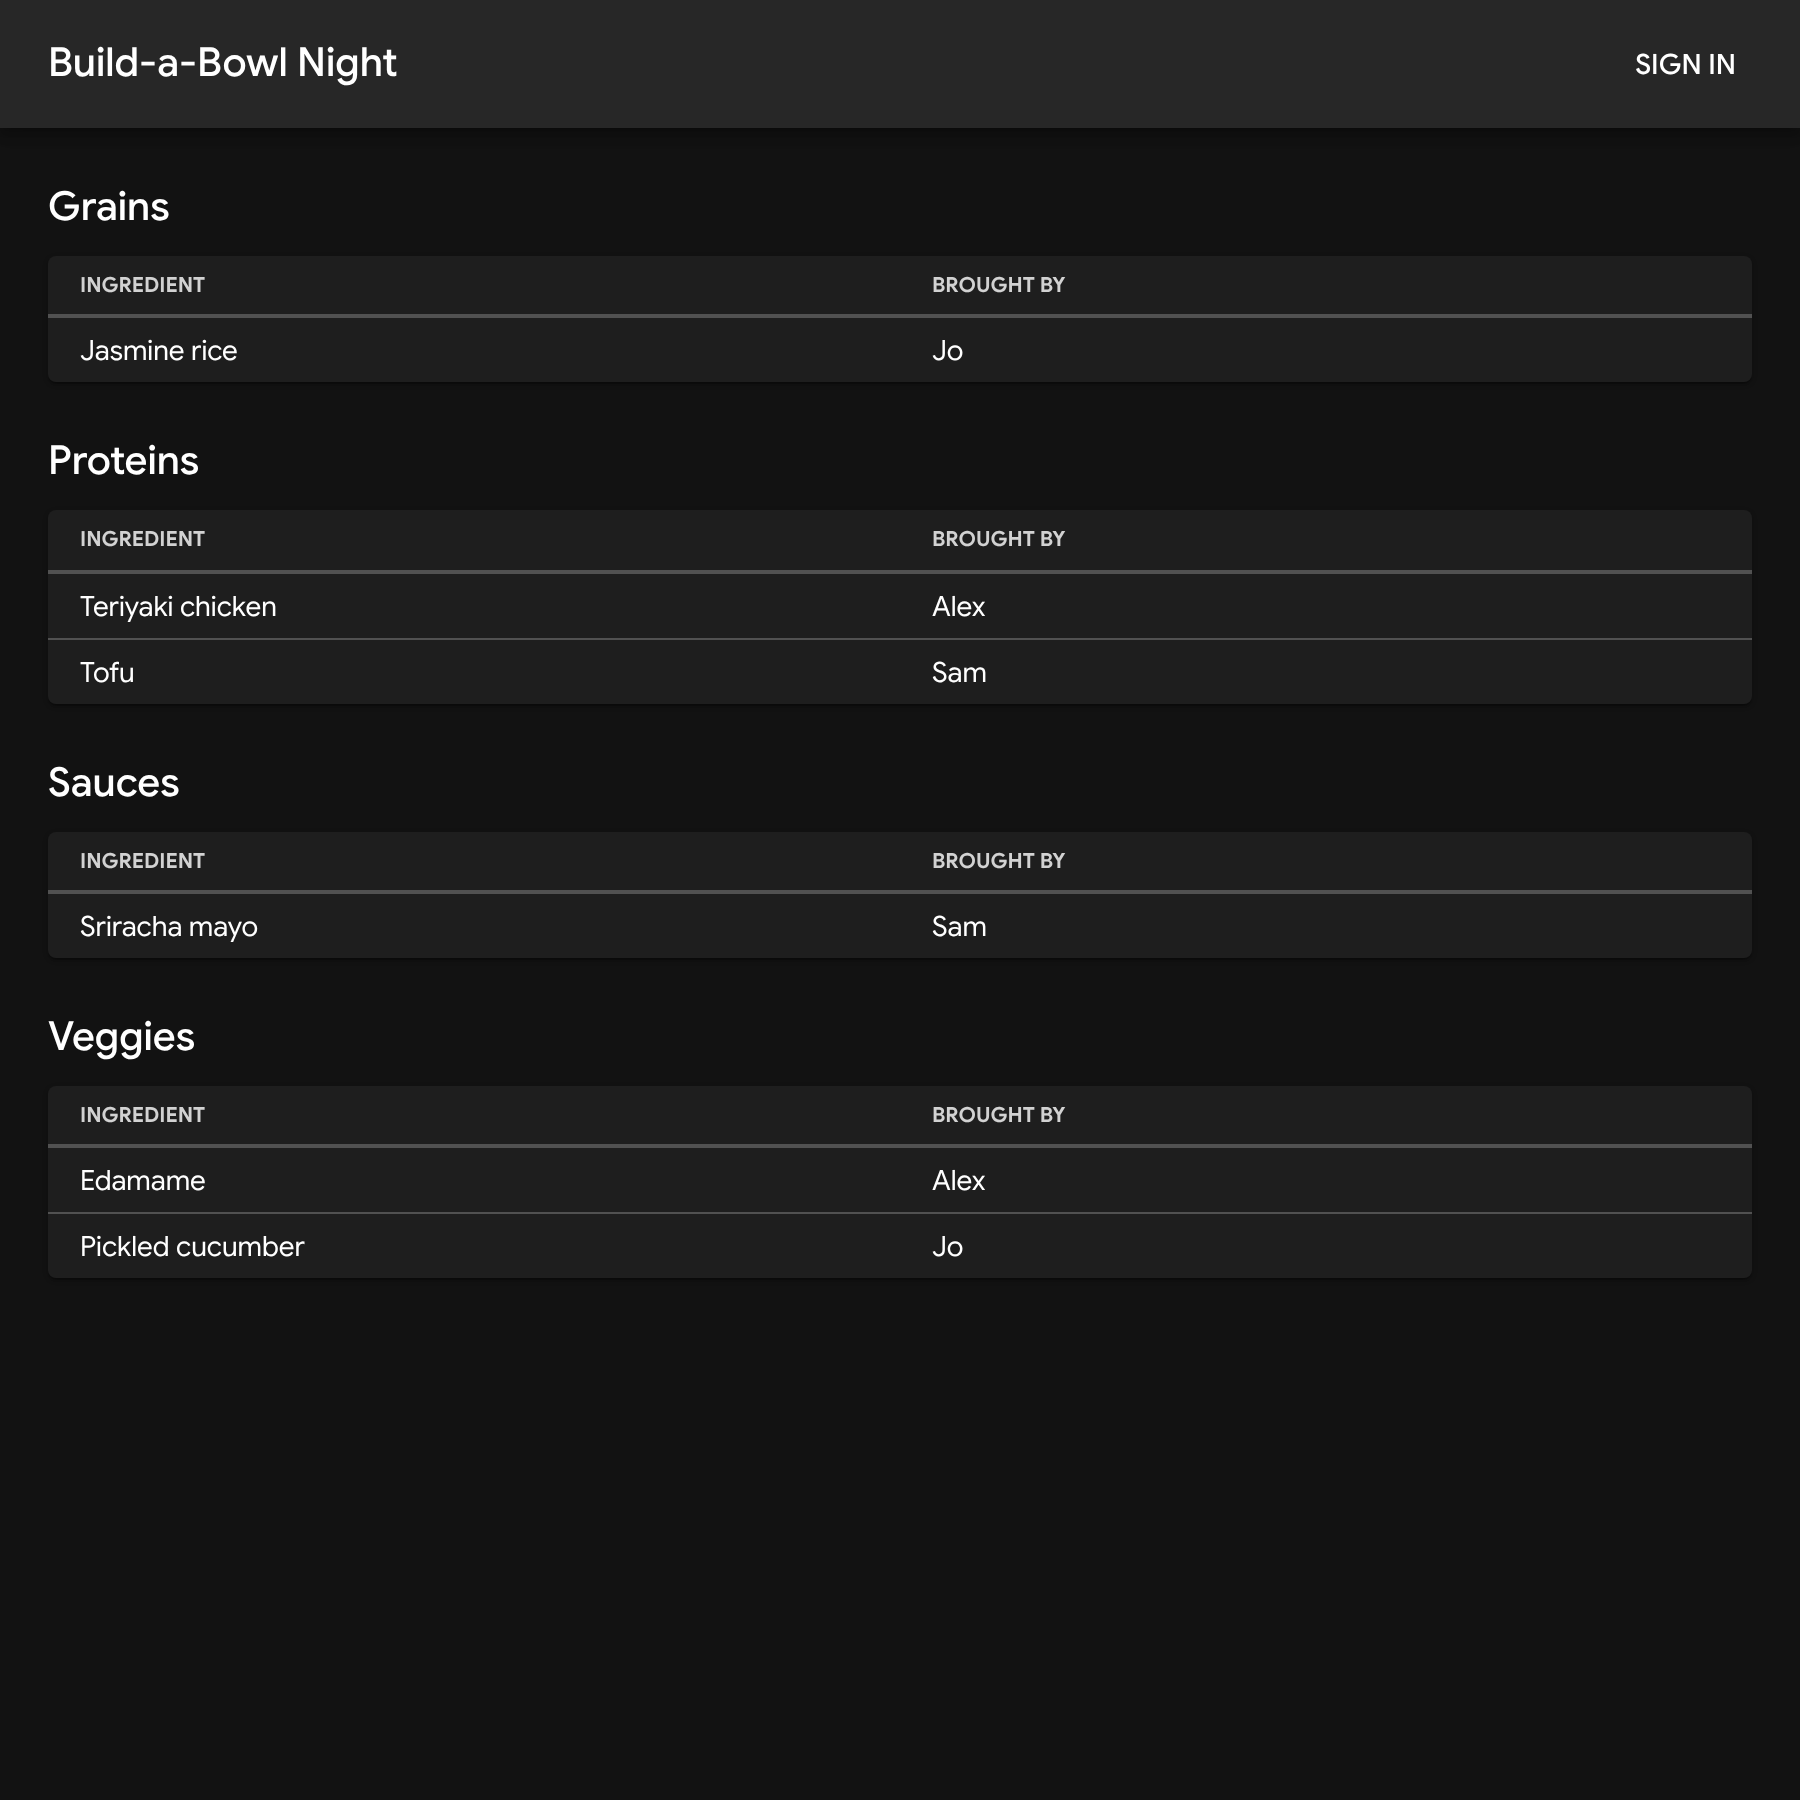
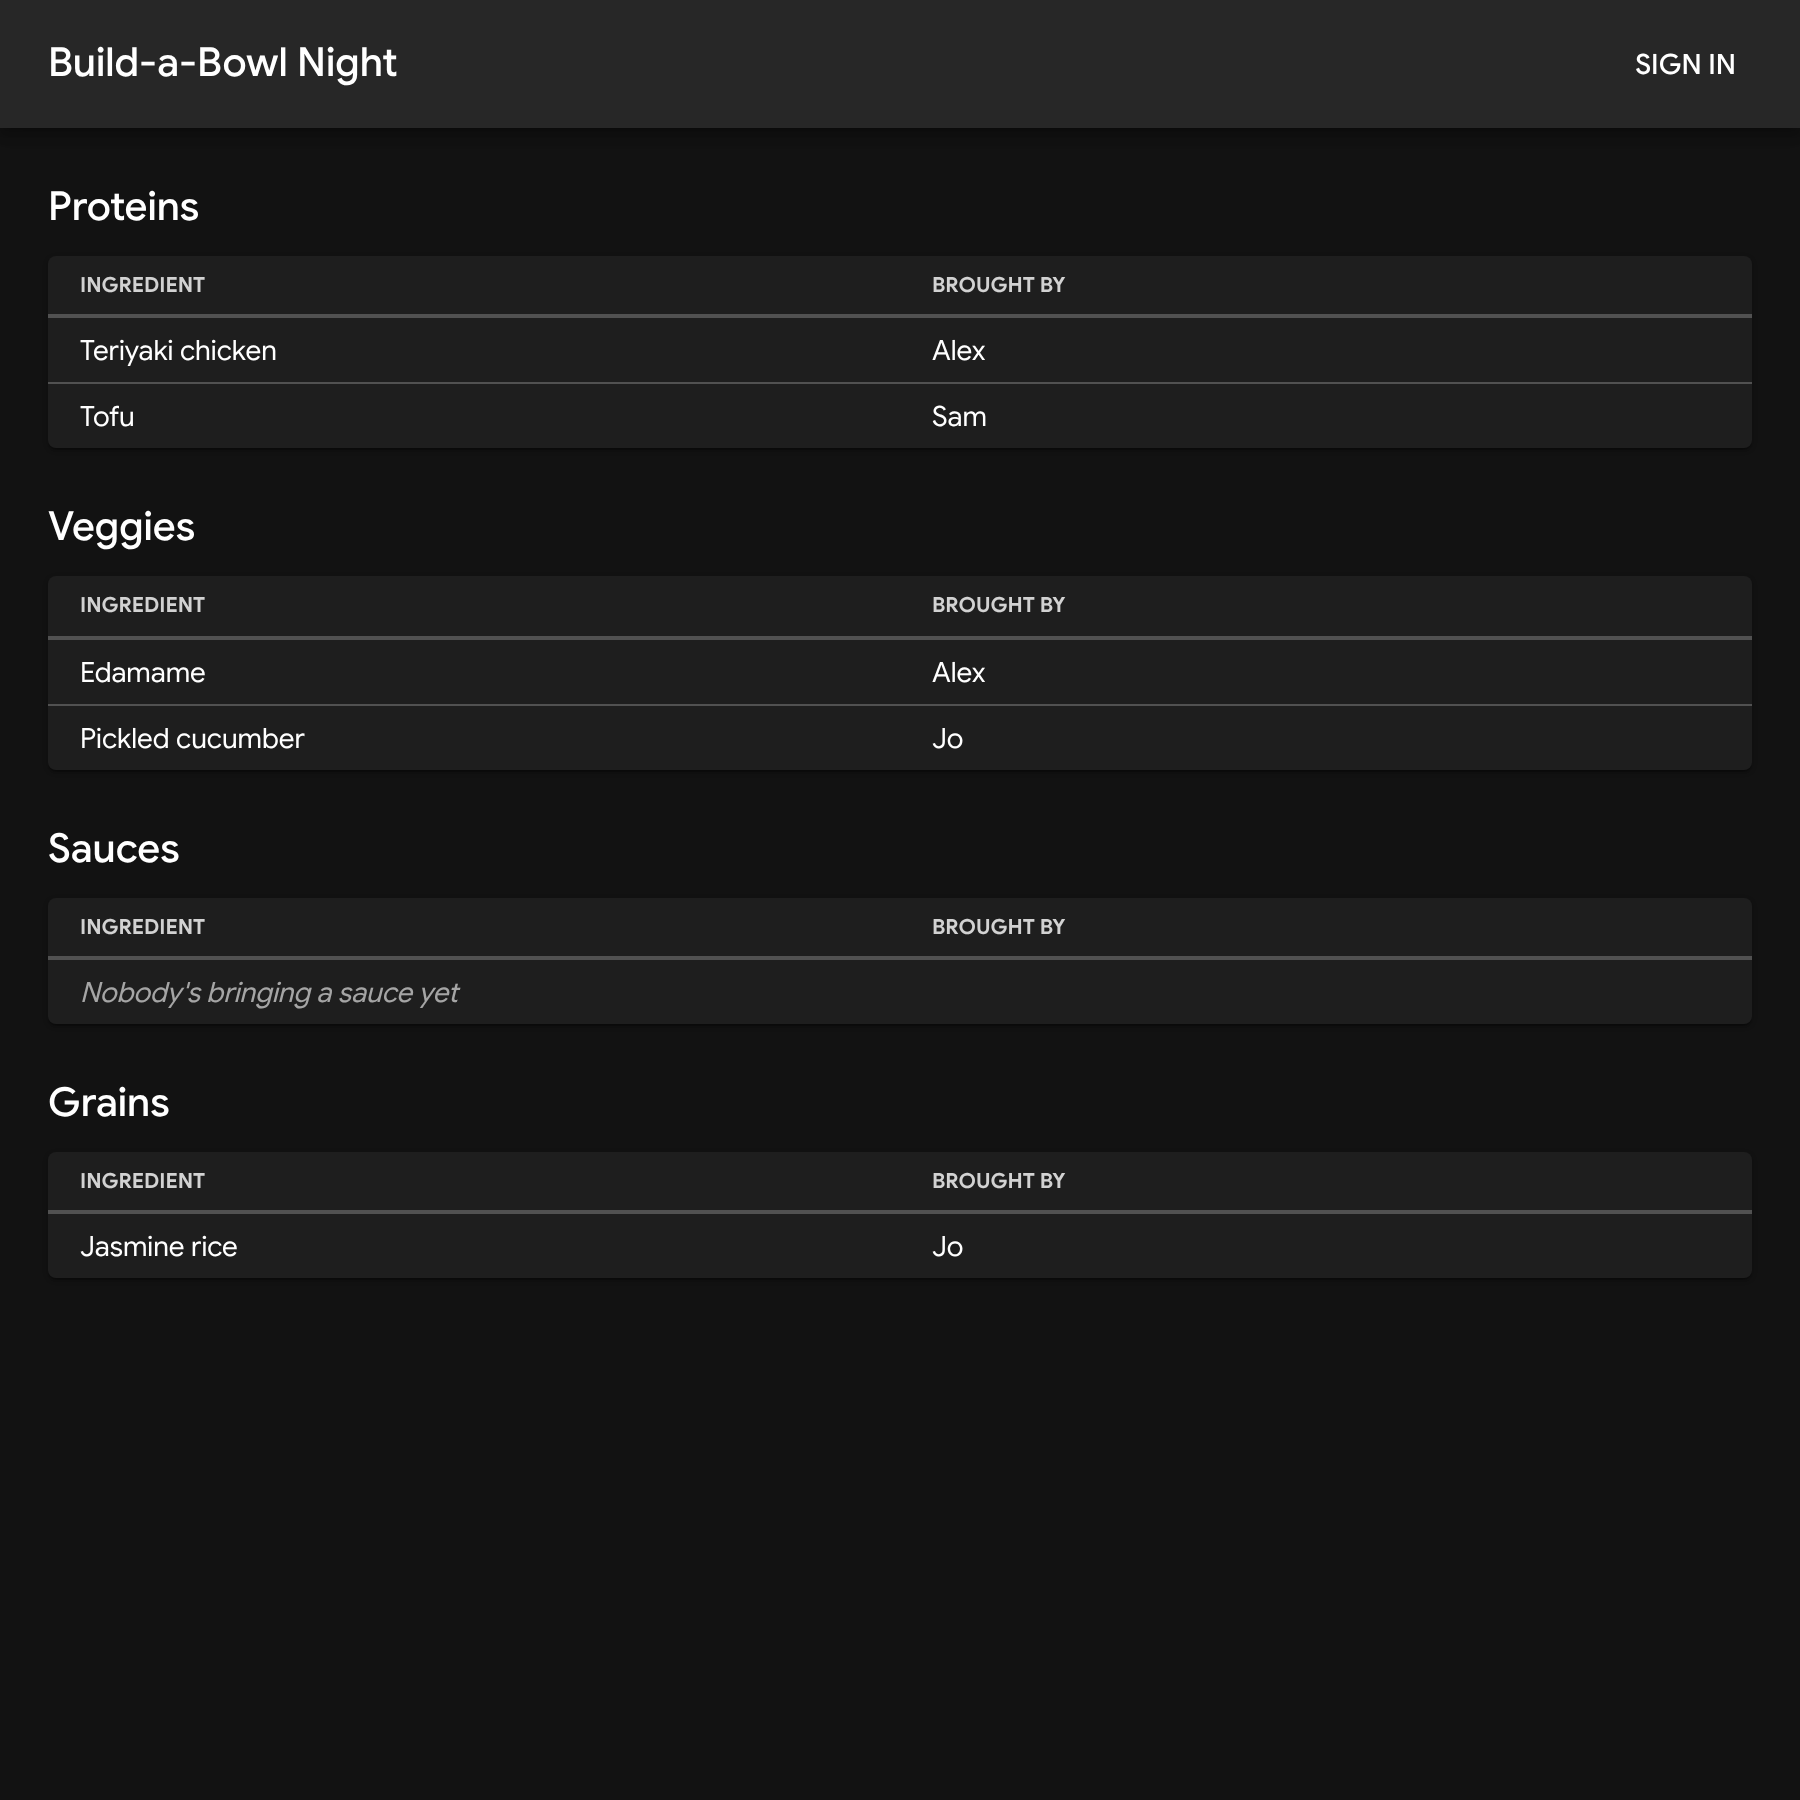
Always show every category, with a fallback row when empty
Claude-Session: https://claude.ai/code/session_01YaXshzgAPddr5nf8bECYCv

diff --git a/site/src/lib/ingredients.ts b/site/src/lib/ingredients.ts
@@ -6,24 +6,45 @@ export interface Ingredient {
   broughtBy: string;
 }
 
-// Groups ingredients by category, sorting categories and ingredients alphabetically.
-export function groupByCategory(ingredients: Ingredient[]): [string, Ingredient[]][] {
-  // Collect ingredients into a map keyed by category.
-  const groups = new Map<string, Ingredient[]>();
+// The categories a new ingredient can be filed under.
+export const INGREDIENT_CATEGORIES = [
+  "Protein",
+  "Veggie",
+  "Sauce",
+  "Grain",
+] as const;
+
+// Groups ingredients by category: every known category first (even if empty), then any others alphabetically.
+export function groupByCategory(
+  ingredients: Ingredient[],
+): [string, Ingredient[]][] {
+  // Seed the map with every known category so empty ones still appear, in their defined order.
+  const groups = new Map<string, Ingredient[]>(
+    INGREDIENT_CATEGORIES.map((c) => [c, []]),
+  );
+
+  // Collect ingredients into the map, adding any category not in the known list.
   for (const ingredient of ingredients) {
     const list = groups.get(ingredient.category) ?? [];
     list.push(ingredient);
     groups.set(ingredient.category, list);
   }
 
-  // Sort the categories, and the ingredients within each, by name.
+  // Keep known categories in order, sort unknown ones by name, and sort each category's ingredients by name.
+  const known: readonly string[] = INGREDIENT_CATEGORIES;
+  const rank = (category: string) => known.indexOf(category);
   return [...groups.entries()]
-    .sort(([a], [b]) => a.localeCompare(b))
+    .sort(([a], [b]) => {
+      if (rank(a) !== -1 || rank(b) !== -1) {
+        return (
+          (rank(a) === -1 ? Infinity : rank(a)) -
+          (rank(b) === -1 ? Infinity : rank(b))
+        );
+      }
+      return a.localeCompare(b);
+    })
     .map(([category, list]): [string, Ingredient[]] => [
       category,
       [...list].sort((a, b) => a.name.localeCompare(b.name)),
     ]);
 }
-
-// The categories a new ingredient can be filed under.
-export const INGREDIENT_CATEGORIES = ["Protein", "Veggie", "Sauce", "Grain"] as const;

diff --git a/site/src/components/IngredientTable.tsx b/site/src/components/IngredientTable.tsx
@@ -51,6 +51,17 @@ export default function IngredientTable({ ingredients }: IngredientTableProps) {
               </TableHead>
               {/* No divider under the final row; the card edge closes the table. */}
               <TableBody sx={{ "& tr:last-child td": { borderBottom: 0 } }}>
+                {items.length === 0 && (
+                  // Fallback row shown when nobody has claimed this category yet.
+                  <TableRow>
+                    <TableCell
+                      colSpan={2}
+                      sx={{ fontStyle: "italic", opacity: 0.6 }}
+                    >
+                      Nobody's bringing a {category.toLowerCase()} yet
+                    </TableCell>
+                  </TableRow>
+                )}
                 {items.map((item) => (
                   <TableRow key={item.id}>
                     <TableCell>{item.name}</TableCell>
